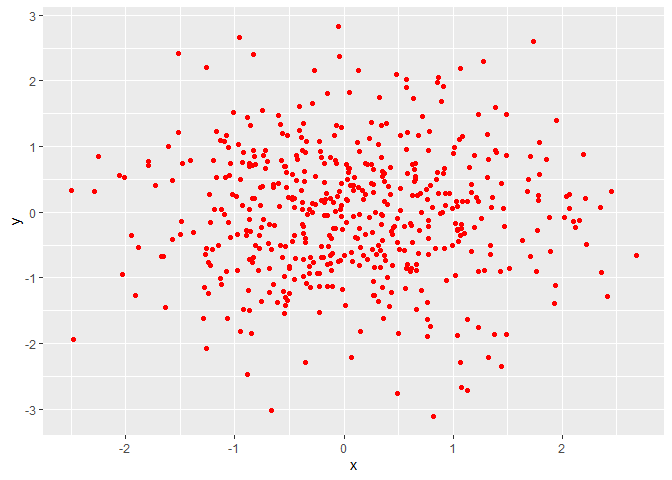
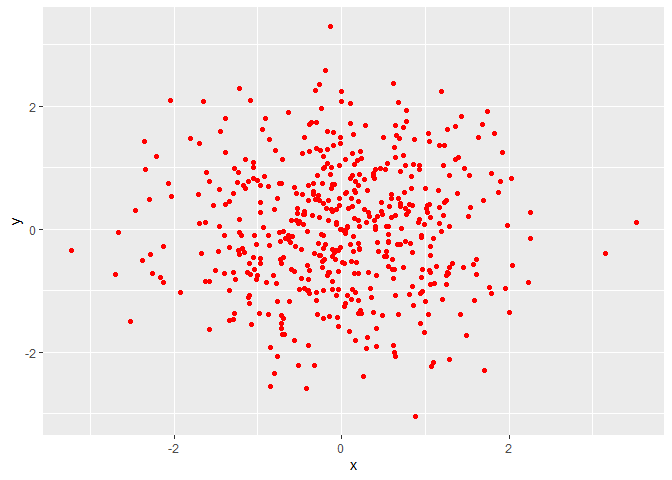
trying to save first scatterplot to github

diff --git a/p8105_hw1_kq2127.md b/p8105_hw1_kq2127.md
@@ -17,13 +17,13 @@ p1_df = tibble(
 mean(pull(p1_df, sample))
 ```
 
-    ## [1] 0.4640177
+    ## [1] 0.7688109
 
 ``` r
 mean(pull(p1_df, gr_th_0))
 ```
 
-    ## [1] 0.75
+    ## [1] 0.625
 
 ``` r
 mean(pull(p1_df, vec_char))
@@ -44,8 +44,8 @@ mean(pull(p1_df, vec_factor))
     ## [1] NA
 
 When I take the mean of the first two variables in my data frame I get a
-result. The mean variable sample is 0.4640177 and the mean of variable
-gr\_th\_0 is 0.75 . I was not able to take the mean of the last two
+result. The mean variable sample is 0.7688109 and the mean of variable
+gr\_th\_0 is 0.625 . I was not able to take the mean of the last two
 variables, vec\_char and vec\_factor because these two variables are not
 numeric or logical.
 
@@ -70,8 +70,8 @@ gr_th_0_num = as.numeric(pull(p1_df, gr_th_0))
 gr_th_0_num*(pull(p1_df, sample))
 ```
 
-    ## [1] 0.00000000 0.98866015 1.12813857 0.01979996 0.96670602 0.00000000
-    ## [7] 0.11631713 1.27355004
+    ## [1] 1.1143537 3.0611857 0.8401859 0.4203895 0.0000000 0.0000000 0.0000000
+    ## [8] 1.7508516
 
 ``` r
 vec_char_num = as.numeric(pull(p1_df, vec_char))
@@ -106,11 +106,19 @@ p2_df = tibble(
 ```
 
 The size of the dataset is 500 rows and 4 columns. The mean of x is
-0.0812982, the median is 0.0319538, and the standard deviation of x is
-0.9522394. The proportion of cases for which x + y \> 1 is
+-0.0097447, the median is -0.0158184, and the standard deviation of x is
+0.9989454. The proportion of cases for which x + y \> 1 is
 
 ``` r
 ggplot(p2_df, aes(x = x, y = y)) + geom_point(color = "red")
 ```
 
-![](p8105_hw1_kq2127_files/figure-gfm/yx_scatter-1.png)<!-- --> \`\`\`
+![](p8105_hw1_kq2127_files/figure-gfm/yx_scatter-1.png)<!-- -->
+
+``` r
+ggsave("p2_df.png")
+```
+
+    ## Saving 7 x 5 in image
+
+\`\`\`
